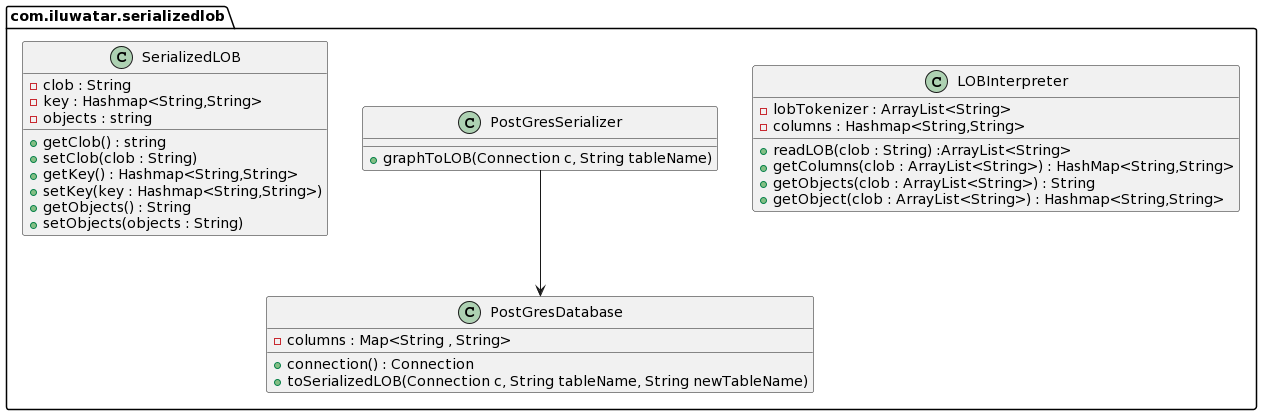
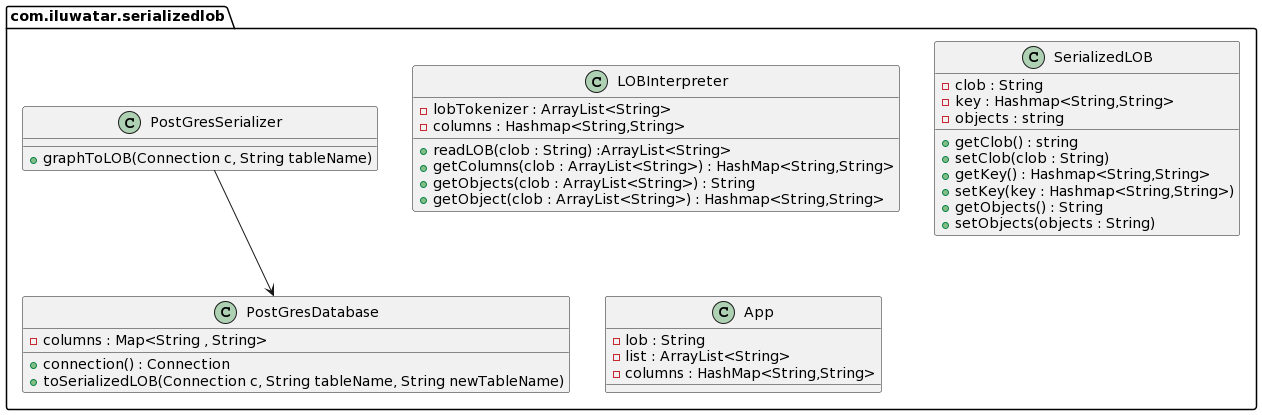
feat : Made an App class and modified

diff --git a/serialized-lob/src/main/java/com/iluwatar/serializedlob/App.java b/serialized-lob/src/main/java/com/iluwatar/serializedlob/App.java
@@ -1,0 +1,49 @@
+/*
+ * This project is licensed under the MIT license.
+ * Module model-view-viewmodel is using ZK framework
+ * licensed under LGPL (see lgpl-3.0.txt).
+ *
+ * The MIT License
+ * Copyright © 2014-2022 Ilkka Seppälä
+ *
+ * Permission is hereby granted, free of charge, to any person obtaining a copy
+ * of this software and associated documentation files (the "Software"), to deal
+ * in the Software without restriction, including without limitation the rights
+ * to use, copy, modify, merge, publish, distribute, sublicense, and/or sell
+ * copies of the Software, and to permit persons to whom the Software is
+ * furnished to do so, subject to the following conditions:
+ *
+ * The above copyright notice and this permission notice shall be included in
+ * all copies or substantial portions of the Software.
+ *
+ * THE SOFTWARE IS PROVIDED "AS IS", WITHOUT WARRANTY OF ANY KIND, EXPRESS OR
+ * IMPLIED, INCLUDING BUT NOT LIMITED TO THE WARRANTIES OF MERCHANTABILITY,
+ * FITNESS FOR A PARTICULAR PURPOSE AND NONINFRINGEMENT. IN NO EVENT SHALL THE
+ * AUTHORS OR COPYRIGHT HOLDERS BE LIABLE FOR ANY CLAIM, DAMAGES OR OTHER
+ * LIABILITY, WHETHER IN AN ACTION OF CONTRACT, TORT OR OTHERWISE, ARISING FROM,
+ * OUT OF OR IN CONNECTION WITH THE SOFTWARE OR THE USE OR OTHER DEALINGS IN
+ * THE SOFTWARE.
+ */
+package com.iluwatar.serializedlob;
+
+import java.util.ArrayList;
+import java.util.HashMap;
+
+/**
+ * Example of how an LOB Interpreter and SerializedLOB class may be used
+ */
+public class App {
+
+    private static String lob = "3 first String second Int third String hello 0 bye";
+    private static ArrayList<String> list = new ArrayList<>();
+    private static HashMap<String,String> columns = new HashMap<>();
+    public static void main(String[] args) {
+        list = LOBInterpreter.readLOB(lob);
+        SerializedLOB slob = new SerializedLOB(lob, LOBInterpreter.getColumns(list),LOBInterpreter.getObjects(list));
+        System.out.println("lob is " + slob.getClob());
+        System.out.println("Its columns are : " + slob.getKey());
+        System.out.println("And Objects are represented as " + slob.getObjects());
+    }
+
+
+}

diff --git a/serialized-lob/src/main/java/com/iluwatar/serializedlob/LOBInterpreter.java b/serialized-lob/src/main/java/com/iluwatar/serializedlob/LOBInterpreter.java
@@ -51,25 +51,25 @@ public class LOBInterpreter {
                 hasNext = false;
             } else{
                 lobTokenizer.add(lob.substring(0,next));
-                lob = lob.substring(next);
+                lob = lob.substring(next+1);
             }
         };
         return lobTokenizer;
     }
 
     public static HashMap<String,String> getColumns(ArrayList<String> clob){
-        int columnCounts = Integer.getInteger( clob.get(0));
+        int columnCounts = Integer.parseInt( clob.get(0));
         for(int i = 0 ;i<columnCounts ; i++){
             columns.put(clob.get(i*2+1),clob.get(i*2+2));
         }
-        return null;
+        return columns;
     }
 
     // This is after Columns part of the CLOB.
     public static String getObjects(ArrayList<String> clob){
         StringBuilder objects = new StringBuilder();
-        int columnCounts = Integer.getInteger(clob.get(0));
-        for(int i = columnCounts*2+2;i<clob.size();i++){
+        int columnCounts = Integer.parseInt(clob.get(0));
+        for(int i = columnCounts*2+1;i<clob.size();i++){
             if(i < clob.size() -  1){
                 objects.append(clob.get(i)).append(" ");
             } else{
